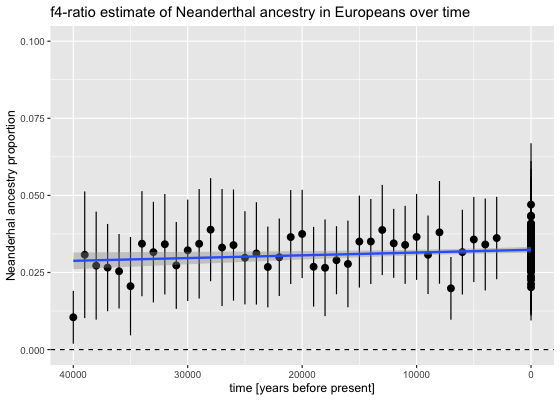
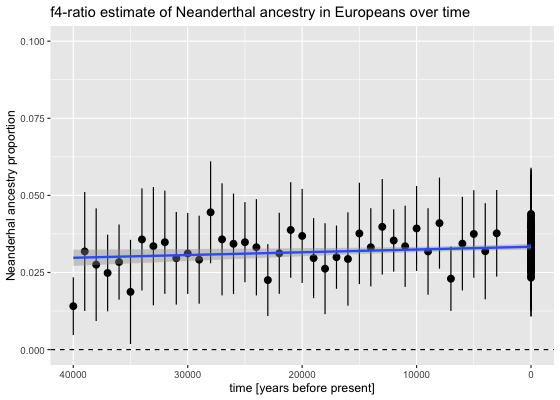
Revert back to md_document output

diff --git a/introgression.md b/introgression.md
@@ -1,26 +1,16 @@
----
-output:
-  md_document:
-    variant: gfm
----
-
 # Simulating Neanderthal introgression data using *slendr*
 
 Load the *slendr* library (we use a development version from GitHub, so
 we’re loading it from a local copy):
 
-``` r
-devtools::load_all("~/projects/slendr")
-#> ℹ Loading slendr
-```
+    devtools::load_all("~/projects/slendr")
+    #> ℹ Loading slendr
 
 Set the location for the model configuration files and the direction for
 output data:
 
-``` r
-model_dir <- "~/projects/introgression-sims/model"
-output_dir <- "~/projects/introgression-sims/results"
-```
+    model_dir <- "~/projects/introgression-sims/model"
+    output_dir <- "~/projects/introgression-sims/results"
 
 Let’s specify the simplest possible introgression model with only three
 populations:
@@ -32,28 +22,24 @@ populations:
 -   one “European” population – no complex Eurasian history, a single
     uniform population with *N*<sub>*e*</sub> = 5000
 
-``` r
-afr <- population("AFR", time = 650e3, N = 10000)
-nea <- population("NEA", parent = afr, time = 600e3, N = 1000, remove = 40e3)
-eur <- population("EUR", parent = afr, time = 70e3, N = 5000)
-```
+<!-- -->
+
+    afr <- population("AFR", time = 650e3, N = 10000)
+    nea <- population("NEA", parent = afr, time = 600e3, N = 1000, remove = 40e3)
+    eur <- population("EUR", parent = afr, time = 70e3, N = 5000)
 
 Neanderthal introgression into Europeans between 55-50 kya at 3%:
 
-``` r
-gf <- geneflow(from = nea, to = eur, rate = 0.03, start = 55000, end = 50000)
-```
+    gf <- geneflow(from = nea, to = eur, rate = 0.03, start = 55000, end = 50000)
 
 Compile the *slendr* model to a set configuration files which will be
 loaded by the SLiM backend script below:
 
-``` r
-model <- compile(
-  populations = list(nea, afr, eur), geneflow = gf,
-  generation_time = 30,
-  dir = model_dir, overwrite = TRUE
-)
-```
+    model <- compile(
+      populations = list(nea, afr, eur), geneflow = gf,
+      generation_time = 30,
+      dir = model_dir, overwrite = TRUE
+    )
 
 Define a couple of individuals that will be “sampled” (i.e. explicitly
 remembered in the tree sequence with their complete genetic sequence):
@@ -65,26 +51,24 @@ remembered in the tree sequence with their complete genetic sequence):
 -   a time-series of early-modern Europeans sampled between 40000 and
     3000 kya, one every 1000 years
 
-``` r
-nea_samples <- sampling(model, times = c(70000, 40000), list(nea, 1))
-present_samples <- sampling(model, times = 0, list(afr, 300), list(eur, 100))
-emh_samples <- sampling(model, times = seq(40000, 3000, by = -1000), list(eur, 1))
+<!-- -->
 
-samples <- rbind(nea_samples, present_samples, emh_samples)
-```
+    nea_samples <- sampling(model, times = c(70000, 40000), list(nea, 1))
+    present_samples <- sampling(model, times = 0, list(afr, 300), list(eur, 100))
+    emh_samples <- sampling(model, times = seq(40000, 3000, by = -1000), list(eur, 1))
+
+    samples <- rbind(nea_samples, present_samples, emh_samples)
 
 Finally we execute the simulation (we simulate 100Mb of sequence in each
 sampled individual, with the recombination rate 10<sup> − 8</sup> per bp
 per generation):
 
-``` r
-slim(
-  model, seq_length = 100e6, recomb_rate = 1e-8,
-  ts_recording = TRUE, sampling = samples,
-  method = "batch", output_dir = output_dir,
-  overwrite = TRUE, verbose = TRUE, seed = 314159265
-)
-```
+    slim(
+      model, seq_length = 100e6, recomb_rate = 1e-8,
+      ts_recording = TRUE, sampling = samples,
+      method = "batch", output_dir = output_dir,
+      overwrite = TRUE, verbose = TRUE, seed = 314159265
+    )
 
 Let’s load the tree sequence generated by SLiM under the hood,
 [recapitate](https://pyslim.readthedocs.io/en/latest/tutorial.html#recapitation)
@@ -94,45 +78,39 @@ it to only nodes appearing as coalescence nodes somewhere in the
 genealogy of the explicitly sampled individuals (or rather their
 chromosomes):
 
-``` r
-ts <- ts_load(model, output_dir = output_dir,
-              recapitate = TRUE, Ne = 10000, recomb_rate = 1e-8,
-              simplify = TRUE)
-```
+    ts <- ts_load(model, output_dir = output_dir,
+                  recapitate = TRUE, Ne = 10000, recomb_rate = 1e-8,
+                  simplify = TRUE)
 
 Let’s sprinkle mutations on the tree sequence data structure (not that
 we did not simulate any mutations at all so far, which is why we can
 generate so much data for so many individuals in a forward simulation):
 
-``` r
-ts_mut <- ts_mutate(ts, mutation_rate = 1e-8)
-```
+    ts_mut <- ts_mutate(ts, mutation_rate = 1e-8)
 
 ## Sanity checks
 
 First, let’s check the contents of the tree sequence tables to make sure
 we have all the samples we simulated:
 
-``` r
-ts_data(ts_mut)
-#> slendr 'tsdata' object 
-#> ---------------------- 
-#> tree-sequence contents:
-#>   AFR - 300 sampled, 136779 retained individuals
-#>   NEA - 2 sampled, 4711 retained individuals
-#>   EUR - 138 sampled, 46179 retained individuals
-#> 
-#> total: 440 sampled, 187669 retained individuals and
-#>  no nodes from an unassigned individual 
-#> 
-#> oldest sampled individual: 70000 backward time units
-#> youngest sampled individual: 0 backward time units
-#> 
-#> oldest node: 8702415 backward time units
-#> youngest node: 0 backward time units
-#> ---------------------- 
-#> data was generated by a non-spatial slendr model
-```
+    ts_data(ts_mut)
+    #> slendr 'tsdata' object 
+    #> ---------------------- 
+    #> tree-sequence contents:
+    #>   AFR - 300 sampled, 136779 retained individuals
+    #>   NEA - 2 sampled, 4711 retained individuals
+    #>   EUR - 138 sampled, 46179 retained individuals
+    #> 
+    #> total: 440 sampled, 187669 retained individuals and
+    #>  no nodes from an unassigned individual 
+    #> 
+    #> oldest sampled individual: 70000 backward time units
+    #> youngest sampled individual: 0 backward time units
+    #> 
+    #> oldest node: 7995404 backward time units
+    #> youngest node: 0 backward time units
+    #> ---------------------- 
+    #> data was generated by a non-spatial slendr model
 
 Then, just for fun, let’s save the data as an EIGENSTRAT format used by
 ADMIXTOOLS. Here we are creating data with an added artificial outgroup
@@ -146,27 +124,21 @@ sequence and muging it a bit in R to be EIGENSTRAT compliant. This is
 very inefficient and will need some reimplementing to make it scalable…
 But it works.
 
-``` r
-prefix <- file.path(output_dir, "eigenstrat")
+    prefix <- file.path(output_dir, "eigenstrat")
 
-eigen_data <- ts_eigenstrat(ts_mut, prefix = prefix, outgroup = "chimp")
-#> 973 mutations (out of 437018) have been removed because they appeared on a position already occupied by another mutation. This is a consequence of mutations positions in tskit being in floating-point values but normal genomic locations being integer values.
-```
+    eigen_data <- ts_eigenstrat(ts_mut, prefix = prefix, outgroup = "chimp")
+    #> 971 mutations (out of 437704) have been removed because they appeared on a position already occupied by another mutation. This is a consequence of mutations positions in tskit being in floating-point values but normal genomic locations being integer values.
 
 Let’s load [admixr](https://bodkan.net/admixr) (plus dplyr and ggplo2
 for table munging and plotting) and do some quick sanity checks.
 
-``` r
-library(admixr)
-library(dplyr)
-library(ggplot2)
-```
+    library(admixr)
+    library(dplyr)
+    library(ggplot2)
 
 Let’s also extract the names (and ages) of all sampled individualsL
 
-``` r
-samples <- ts_samples(ts)
-```
+    samples <- ts_samples(ts)
 
 First,
 $f4(\\textrm{African}\_i, \\textrm{African}\_j}, \\textrm{Neanderthal}, \\textrm{chimp})$
@@ -176,27 +148,23 @@ should be significantly negative because of the genetic affinity between
 Neanderthals and Europeans (we do this only for a subset of present-day
 individuals to reduce computational time and memory):
 
-``` r
-f4_result <-
-  filter(samples, time == 0, pop %in% c("AFR", "EUR")) %>%
-  group_by(pop) %>%
-  sample_n(20) %>%
-  pull(name) %>%
-  f4(W = "AFR1", X = ., Y = "NEA1", Z = "chimp", data = eigen_data)
-```
+    f4_result <-
+      filter(samples, time == 0, pop %in% c("AFR", "EUR")) %>%
+      group_by(pop) %>%
+      sample_n(20) %>%
+      pull(name) %>%
+      f4(W = "AFR1", X = ., Y = "NEA1", Z = "chimp", data = eigen_data)
 
-``` r
-inner_join(f4_result, samples, by = c("X" = "name")) %>%
-  ggplot(aes(pop, f4, color = pop)) +
-    geom_pointrange(aes(ymin = f4 - 2 * stderr, ymax = f4 + 2 * stderr, group = X),
-                    position = position_dodge(width = 1)) +
-    geom_hline(yintercept = 0, linetype = 2) +
-    theme(axis.text.x = element_blank(), axis.title.x = element_blank()) +
-    ggtitle("f4(AFR1, <African or European>; Neanderthal, Chimp)",
-            "Statistical test for the presence of Neanderthal ancestry")
-```
+    inner_join(f4_result, samples, by = c("X" = "name")) %>%
+      ggplot(aes(pop, f4, color = pop)) +
+        geom_pointrange(aes(ymin = f4 - 2 * stderr, ymax = f4 + 2 * stderr, group = X),
+                        position = position_dodge(width = 1)) +
+        geom_hline(yintercept = 0, linetype = 2) +
+        theme(axis.text.x = element_blank(), axis.title.x = element_blank()) +
+        ggtitle("f4(AFR1, <African or European>; Neanderthal, Chimp)",
+                "Statistical test for the presence of Neanderthal ancestry")
 
-![](figures/f4_test-1.png)<!-- -->
+![](figures/f4_test-1.png)
 
 Looks great! We can see that the Africans are all consistent with the
 hypothesis of no Neanderthal introgression (as expected, and as implied
@@ -210,30 +178,26 @@ of course, a different question than *if* we detect it). First let’s use
 the `f4ratio` function in the *admixr* R package to perform the
 *f*<sub>4</sub>-ratio estimate of Neanderhal ancestry:
 
-``` r
-f4ratio_result <-
-  filter(samples, pop == "EUR") %>%
-  pull(name) %>%
-  f4ratio(X = ., A = "NEA1", B = "NEA2", C = "AFR1", O = "chimp", data = eigen_data)
-```
+    f4ratio_result <-
+      filter(samples, pop == "EUR") %>%
+      pull(name) %>%
+      f4ratio(X = ., A = "NEA1", B = "NEA2", C = "AFR1", O = "chimp", data = eigen_data)
 
 Now let’s plot the time-series of Neanderthal ancestry estimates in
 simulated Europeans over time:
 
-``` r
-inner_join(f4ratio_result, samples, by = c("X" = "name")) %>%
-  ggplot(aes(time, alpha)) +
-    geom_pointrange(aes(ymin = alpha - 2 * stderr, ymax = alpha + 2 * stderr)) +
-    geom_hline(yintercept = 0, linetype = 2) +
-    geom_smooth(method = "lm") +
-    coord_cartesian(ylim = c(0, 0.1)) +
-    xlim(c(max(filter(samples, pop == "EUR")$time), 0)) +
-    ggtitle("f4-ratio estimate of Neanderthal ancestry in Europeans over time") +
-    labs(x = "time [years before present]", y = "Neanderhal ancestry proportion")
-#> `geom_smooth()` using formula 'y ~ x'
-```
+    inner_join(f4ratio_result, samples, by = c("X" = "name")) %>%
+      ggplot(aes(time, alpha)) +
+        geom_pointrange(aes(ymin = alpha - 2 * stderr, ymax = alpha + 2 * stderr)) +
+        geom_hline(yintercept = 0, linetype = 2) +
+        geom_smooth(method = "lm") +
+        coord_cartesian(ylim = c(0, 0.1)) +
+        xlim(c(max(filter(samples, pop == "EUR")$time), 0)) +
+        ggtitle("f4-ratio estimate of Neanderthal ancestry in Europeans over time") +
+        labs(x = "time [years before present]", y = "Neanderhal ancestry proportion")
+    #> `geom_smooth()` using formula 'y ~ x'
 
-![](figures/f4ratio_trajectory-1.png)<!-- -->
+![](figures/f4ratio_trajectory-1.png)
 
 As expected, we see a constant level of Neanderthal ancestry around 3%
 (which is exactly what we have simulated)!
@@ -243,6 +207,4 @@ As expected, we see a constant level of Neanderthal ancestry around 3%
 Having made sure that the simulated data looks reasonable, we can save
 the simulated genotypes in a VCF format:
 
-``` r
-ts_vcf(ts_mut, path = file.path(output_dir, "output.vcf.gz"))
-```
+    ts_vcf(ts_mut, path = file.path(output_dir, "output.vcf.gz"))
